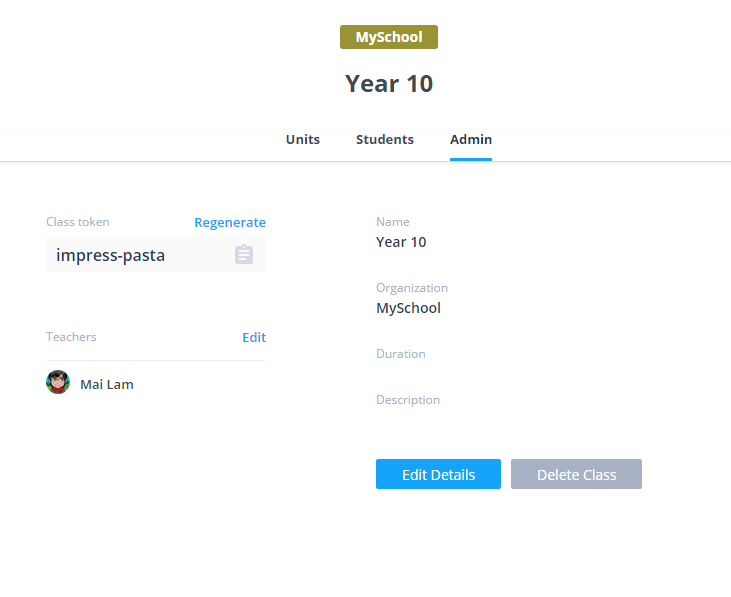
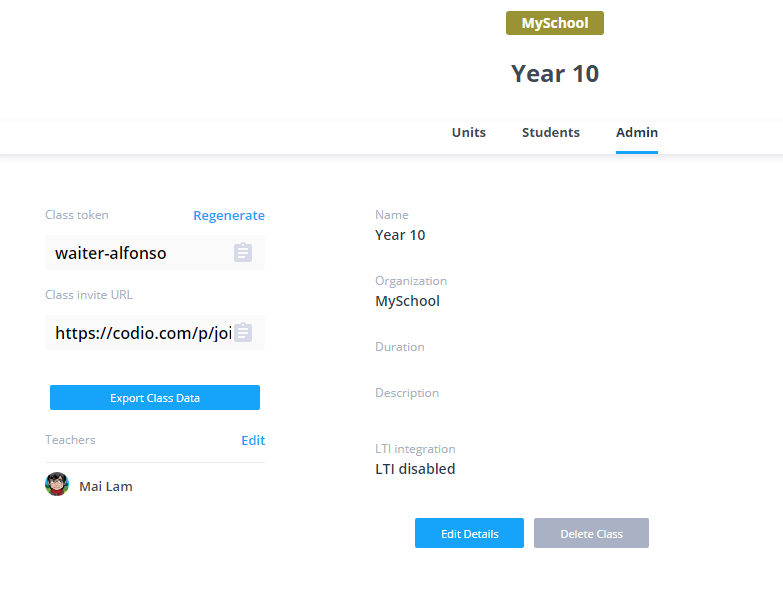
changelog #9366 #9386

diff --git a/source/docs/classes/classmanagement/export.html.md b/source/docs/classes/classmanagement/export.html.md
@@ -1,0 +1,32 @@
+---
+title: Exporting class data
+class_name: docs
+full_width: true
+---
+
+Class data (including students workspaces) can be exported. We would recommend the data is exported before you [Delete a Class](/docs/classes/classmanagement/delete/)
+
+- Select the class, go to the **Admin** area and then press the **Export Class Data** button.
+
+<img alt="Class Export" src="/img/docs/class_export.png" class="simple"/>
+
+- All the data from the class will be compiled into a zip file in the background and when ready an email will be sent to you with a link for you to download. 
+
+- The link will be active for 7 days and after this time the zip file will be removed
+
+- You can also access any active files to download (and generate a new export if required) by clicking on the **Export Class Data** button
+
+<img alt="Class Export Links" src="/img/docs/class_exportlinks.png" class="simple"/>
+
+Individual units or course module data can also be downloaded separately if required. See [Download CSV](/docs/classes/monitor/progress#downloadcsv) for more details
+
+### Working with student workspaces
+
+If in the future you have need to review any students workspace, these can be imported back into your Codio account. 
+Simply 'zip' up the folder and you can then import the project into your account. See [creating and importing a project](/docs/project/creating/) for more information. 
+
+Please note, the stack used in the original workspace is not included in the exported workspace so if you need to 'run' the project you should select the appropriate stack either when importing the project or by switching the stack, either from the gear icon in the main projects listing or by going to **Project>Stack>Settings** in the project 
+
+
+
+

diff --git a/source/docs/classes/classmanagement/delete.html.md b/source/docs/classes/classmanagement/delete.html.md
@@ -4,15 +4,15 @@ class_name: docs
 full_width: true
 ---
 
-A class can be deleted by class teachers and organization ownwers.
+A class can be deleted by class teachers and organization owners. All the class data can also be exported. See [Export class data](docs/classes/classmanagement/export/) for more information
 
 - Select the class, go to the **Admin** area and then press the **Delete Class** button.
 
-<img alt="authtoken" src="/img/docs/class_delete.png" class="simple"/>
+<img alt="Class delete" src="/img/docs/class_delete.png" class="simple"/>
 
 - You can delete just the class or you can also delete the class AND remove the students from your organization as well. If you select the option to **Delete the Class and Students** and any of the students in this class are also members in other classes, they will not show in the list of students. They will not be removed from the organization or from other classes they are also members of. The option **Delete Class Only** will just delete the class but not remove any students.
 
-<img alt="authtoken" src="/img/docs/deleteclass.png" class="simple"/>
+<img alt="Delete class confirmation" src="/img/docs/deleteclass.png" class="simple"/>
 
-- [Organization owners](/docs/dashboard/create/adminrole) are able to view a list of any members that are no longer members of any classes and remove any users from the organization. See [View Organization Members](/docs/dashboard/create/viewmembers) for more information.
+- [Organization owners](/docs/dashboard/create/adminrole) are able to view a list of any members that are no longer members of any classes and remove any users from the organization. See [View organization members](/docs/dashboard/create/viewmembers) for more information.
 

diff --git a/source/docs/classes/monitor/progress.html.md b/source/docs/classes/monitor/progress.html.md
@@ -25,3 +25,5 @@ You can also download a CSV file of your students progress. You can do this for 
 or you can download a CSV file for the Course to see all your students progress in all the units in each Module by hovering over the Module name to select **Download CSV** there: 
 <img alt="authtoken" src="/img/docs/downloadcsv_module.png" class="simple"/>
 
+or you can export all the data from a class (including the students workspaces) by exporting class data. See [export class data]((docs/classes/classmanagement/export/) for more details
+

diff --git a/source/docs/misc/changelog.html.md b/source/docs/misc/changelog.html.md
@@ -13,6 +13,8 @@ We do not report small bug fixes or issues that affect individual users, who we 
 
 **Febuary 2018**
 
+- `[F] [ 8th]`: [Export class data]((docs/classes/classmanagement/export/) enabling all class data, including students workspaces to be exported.
+- `[I] [ 5th]`: Fix issue with book units
 - `[I] [ 5th]`: Fix issue publishing books after changing stack
 - `[I] [ 1st]`: Fix issue with content being lost when switching browsers
 
